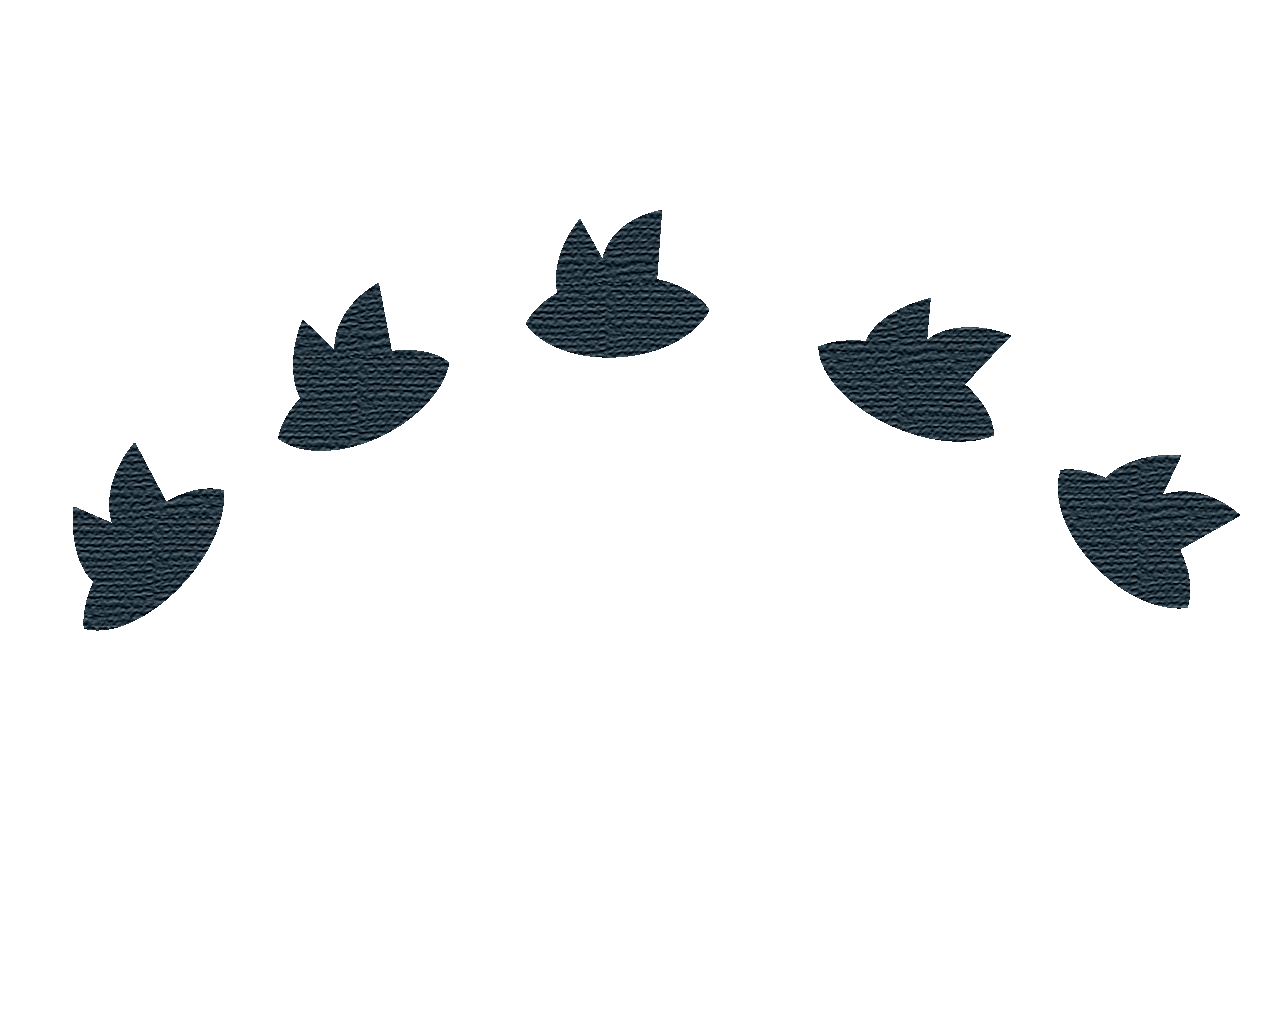
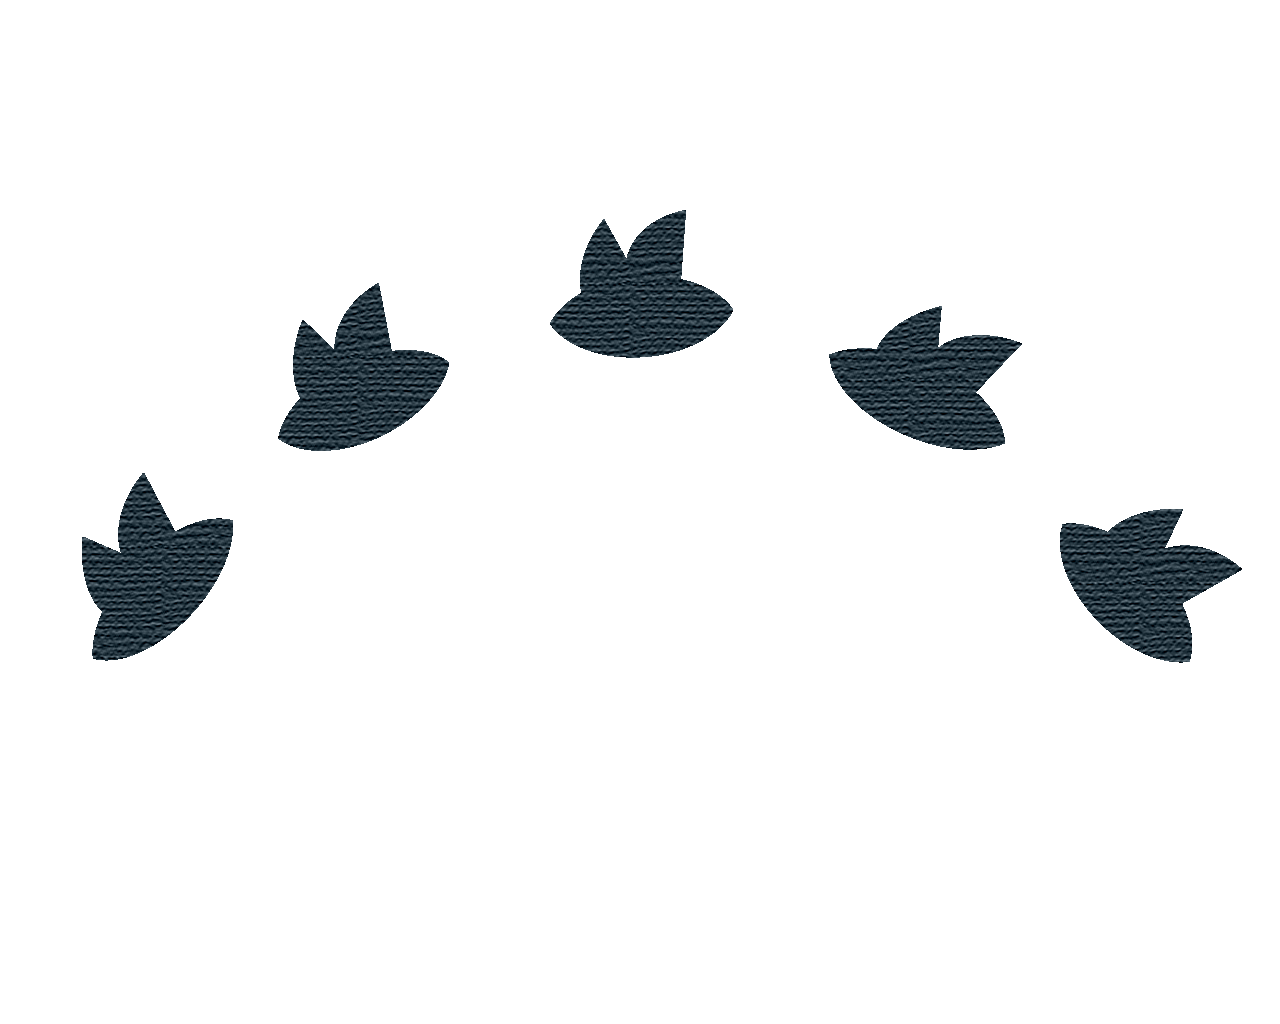
최종 수정사항

diff --git a/public/styles/css/styles.css b/public/styles/css/styles.css
@@ -27,22 +27,29 @@ body {
 
 @keyframes rotateAnimation {
     0% {
-      transform: rotate(360deg);
+      transform: rotate(0deg) translateY(0);
+    }
+    50% {
+      transform: rotate(180deg) translateY(-30%);
     }
     100% {
-      transform: rotate(0deg);
+        transform: rotate(360deg) translateY(0);
     }
 }
+
 #background-bird {
     position: fixed;
-    top: 120px;
-    left: 130px;
-    width: 200px;
-    height: 200px;
+    top: 140px;
+    left: 430px;
+    width: 230px;
+    height: 230px;
     background-image: url('../background-bird.png');
-    animation: rotateAnimation 5s ease-in-out infinite;
-    animation-delay: 2s;
-    z-index: 1;
+    background-size: cover;
+    animation: rotateAnimation 4.5s infinite 1.5s,
+                show-up 1.5s ease-in-out backwards 2s;
+    transition-timing-function: cubic-bezier(0.970, -0.105, 0.740, 0.840);
+    /* animation-delay: 2s; */
+    z-index: -2;
 }
 #background-mountain {
     position: fixed;
@@ -52,7 +59,6 @@ body {
     height: 135%;
     background-image: url('../EchoEdu_BackGround_Mountain.png');
     background-size: cover;
-    background-position: center;
     animation: slide-up 1.5s ease-in-out;
     z-index: -1; /* Place the background behind the content */
 }
@@ -62,7 +68,6 @@ body {
     height: 135%;
     background-image: url('../EchoEdu_BackGround_Tree.png');
     background-size: cover;
-    background-position: center;
     animation: slide-up 1s ease-in-out 0.8s; /* 1초 delay 후 1.5초동안 애니메이션 실행 */
     animation-fill-mode: backwards;
     z-index: -1; /* Place the background behind the content */
@@ -102,8 +107,8 @@ li a img {
     right: 40px;
 }
 #infoLogo a img {
-    width: 30px;
-    height: 30px;
+    width: 35px;
+    height: 35px;
 }
 #logo-message {
     width: 162px;
@@ -341,20 +346,20 @@ button#goto-auth {
 button#goto-auth:hover {
     background-color: #EF6262;
 }
-/* @keyframes recommend-show-up {
-    0% {
-        position: relative;
-        border-radius: 50;
-        display: none;
-    }
-    100% {
-        position: absolute;
-        border-radius: 0;
-        display: block;
-    }
-} */
 
 /* auth.pug */
 #auth-result {
     color: white;
 }
+/* #websites {
+    position: fixed;
+    bottom: 40px;
+    right: 40px;
+}
+#website {
+    border-radius: 50%;
+    width: 50px;
+    height: 50px;
+    box-shadow: 0 4px 6px rgba(0, 0, 0, 0.1);
+    background-color: #EF6262;
+} */
